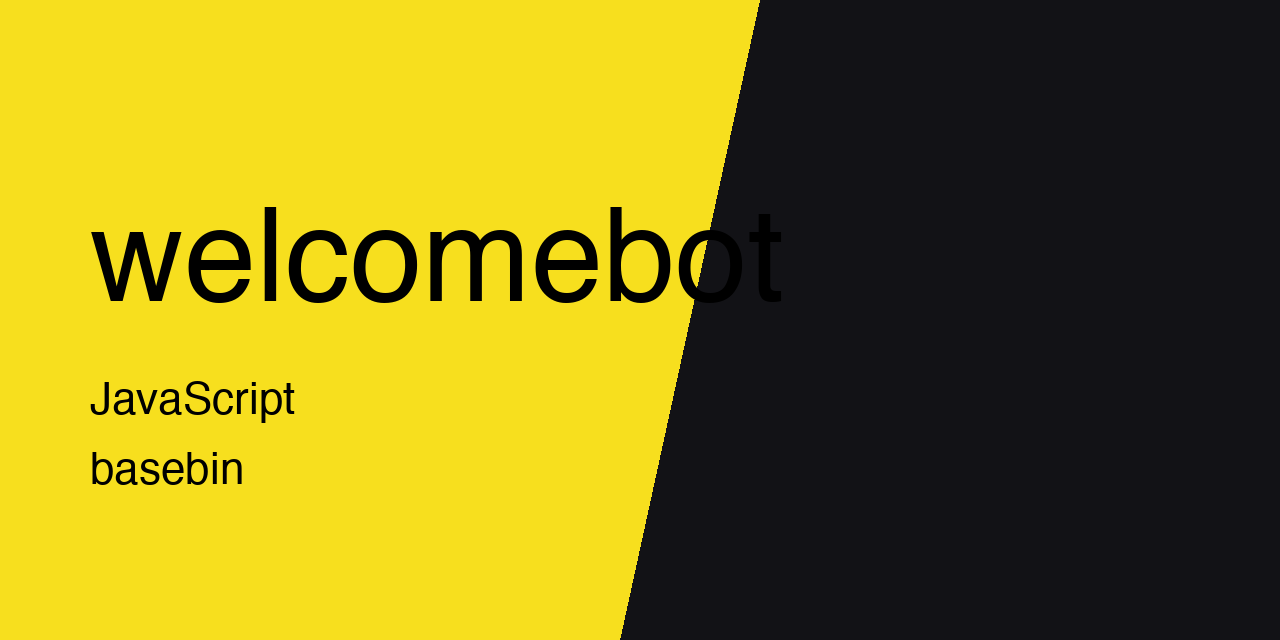
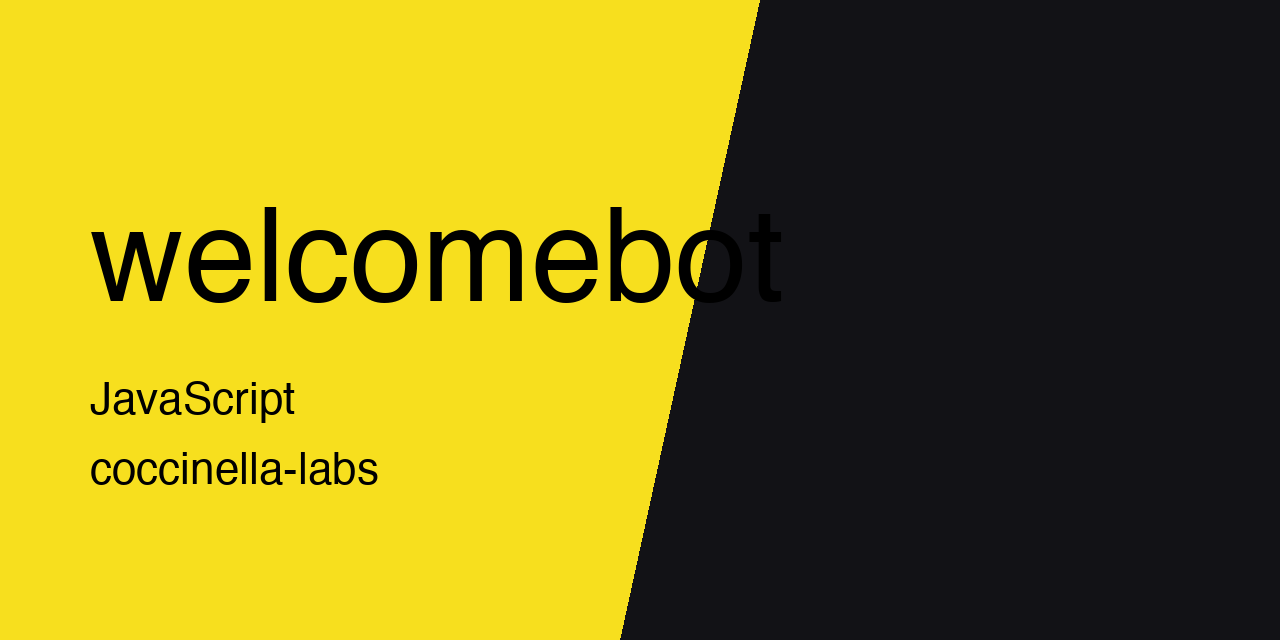
[docs] move thumbnail to coccinella-labs

Changed region(s): [[0.0625, 0.7188, 0.3125, 0.7812]]

diff --git a/README.md b/README.md
@@ -1,5 +1,5 @@
 <p align="center">
-  <img src="https://raw.githubusercontent.com/basebin/welcomebot/main/.github/assets/thumbnail.png" alt="welcomebot" width="100%">
+  <img src="https://raw.githubusercontent.com/Coccinella-Labs/welcomebot/main/.github/assets/thumbnail.png" alt="welcomebot" width="100%">
 </p>
 
 welcome bot.
